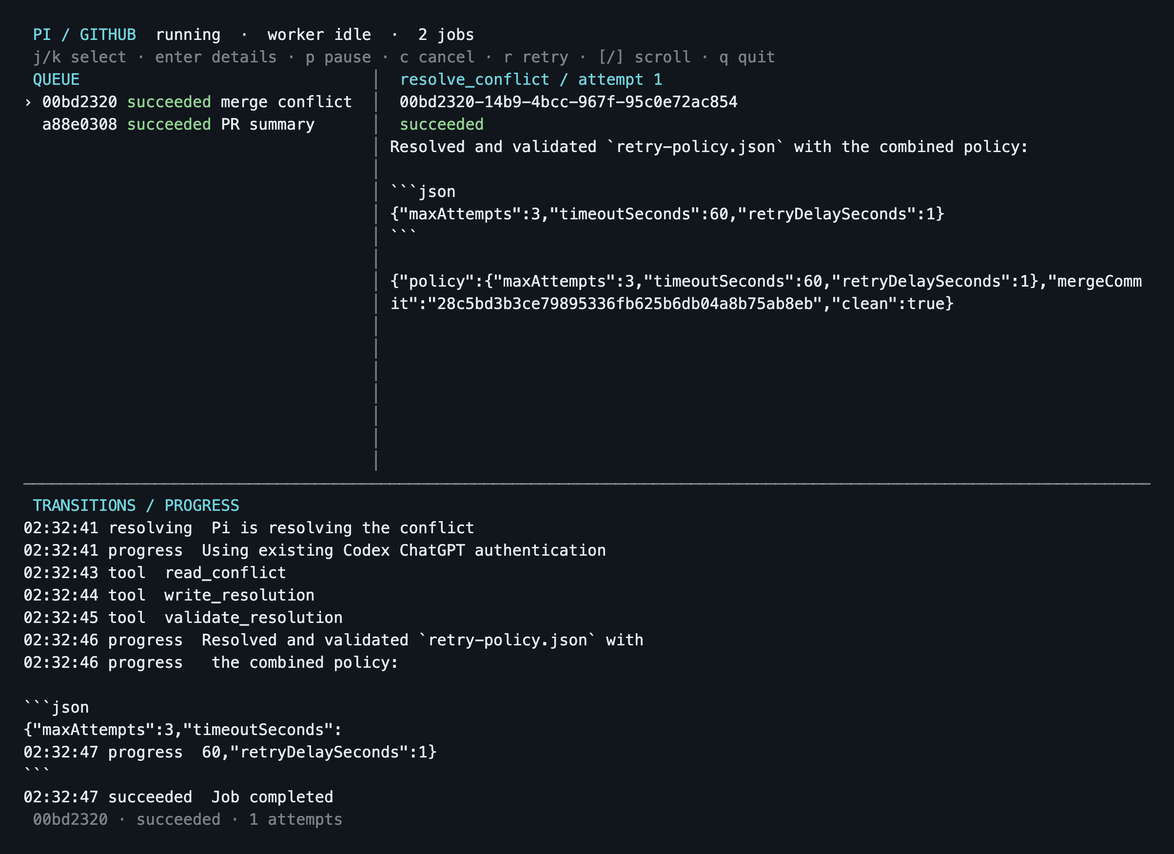
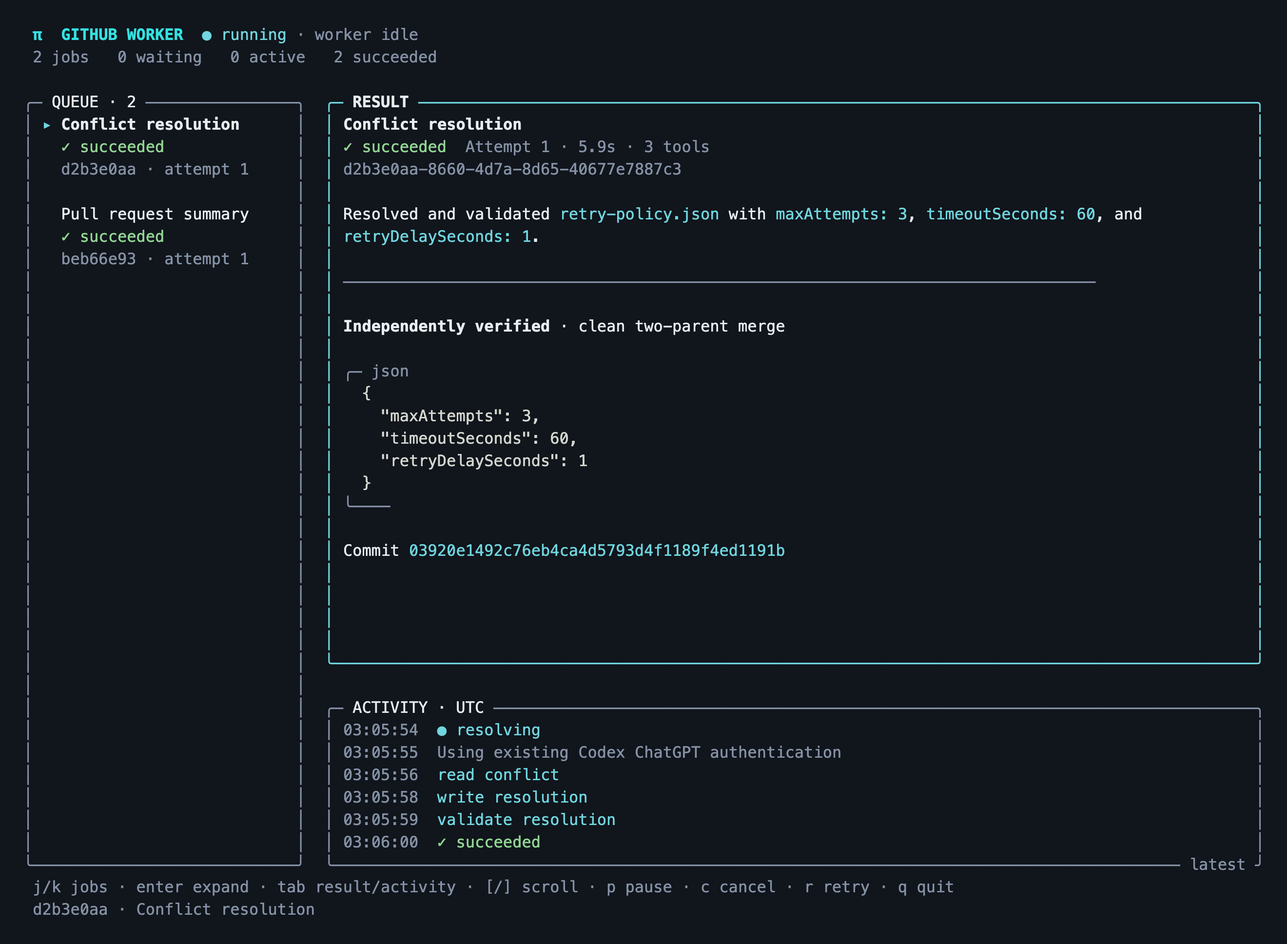
feat(pi-github): render Markdown in dashboard
Give results more room, format verified policy evidence, and separate compact activity from worker prose. Preserve responsive layouts, independent bounded scrolling, and visible quit help.

Detected-By: user

diff --git a/tools/pi-github/src/dashboard-render.ts b/tools/pi-github/src/dashboard-render.ts
@@ -1,0 +1,148 @@
+import { Markdown, truncateToWidth, visibleWidth, wrapTextWithAnsi, type MarkdownTheme } from "@earendil-works/pi-tui";
+import { activeStates, cleanText, type Job, type JobEvent, type Snapshot } from "./domain.js";
+
+const paint = (code: number, text: string) => `\x1b[${code}m${text}\x1b[0m`;
+const accent = (text: string) => paint(36, text);
+const muted = (text: string) => paint(90, text);
+const bold = (text: string) => paint(1, text);
+const fit = (text: string, width: number) => truncateToWidth(text, Math.max(1, width), "");
+const pad = (text: string, width: number) => fit(text, width) + " ".repeat(Math.max(0, width - visibleWidth(fit(text, width))));
+const statusLabel = (value: string) => value.replaceAll("_", " ");
+function state(value: string): string {
+  const code = value === "failed" ? 31 : value === "succeeded" ? 32 : value === "conflicted" || value === "paused" || value === "retry_wait" ? 33 : 36;
+  const icon = value === "succeeded" ? "✓" : value === "failed" ? "×" : value === "queued" ? "◇" : "●";
+  return paint(code, `${icon} ${statusLabel(value)}`);
+}
+const title = (job: Job) => job.task.kind === "resolve_conflict" ? "Conflict resolution" : "Pull request summary";
+const markdownTheme: MarkdownTheme = {
+  heading: text => accent(bold(text)), link: accent, linkUrl: muted, code: accent,
+  codeBlock: text => paint(37, text), codeBlockBorder: text => muted(text.length > 3 ? `╭─ ${text.slice(3)} ` : "╰────"),
+  highlightCode: (code, language) => {
+    if (language?.toLowerCase() === "json") {
+      try { code = JSON.stringify(JSON.parse(code), null, 2); } catch { /* NOTE: Incomplete streamed JSON stays visible without reformatting. */ }
+    }
+    return code.split("\n").map(line => paint(37, line));
+  },
+  quote: muted, quoteBorder: accent, hr: muted, listBullet: accent, bold,
+  italic: text => paint(3, text), strikethrough: text => paint(9, text), underline: text => paint(4, text),
+};
+export interface ViewState {
+  selected: number; expanded: boolean; scroll: number; message: string;
+  focus?: "result" | "activity"; activityScroll?: number;
+}
+
+function resultMarkdown(job: Job, events: JobEvent[]): string {
+  if (job.result) {
+    const text = cleanText(job.result, 24000);
+    const boundary = text.lastIndexOf("\n\n");
+    if (job.task.kind === "resolve_conflict" && job.status === "succeeded" && boundary >= 0) {
+      try {
+        const verified = JSON.parse(text.slice(boundary + 2)) as { clean?: unknown; mergeCommit?: unknown; policy?: Record<string, unknown> };
+        if (verified.clean === true && typeof verified.mergeCommit === "string" && /^[a-f0-9]{40}$/.test(verified.mergeCommit) && verified.policy && ["maxAttempts", "timeoutSeconds", "retryDelaySeconds"].every(key => typeof verified.policy![key] === "number")) {
+          return `${text.slice(0, boundary)}\n\n---\n\n**Independently verified** · clean two-parent merge\n\n\`\`\`json\n${JSON.stringify(verified.policy)}\n\`\`\`\n\nCommit \`${verified.mergeCommit}\``;
+        }
+      } catch { /* NOTE: Older or unfamiliar results remain visible as received. */ }
+    }
+    return text;
+  }
+  if (job.error) return `**${statusLabel(job.status)}**\n\n${cleanText(job.error)}`;
+  const attemptStart = job.attempts.at(-1)?.startedAt ?? 0;
+  const progress = events.filter(e => e.at >= attemptStart && e.kind === "progress" && !e.detail.startsWith("Using existing ")).map(e => e.detail).join("");
+  if (progress) return progress;
+  const conflict = events.findLast(e => e.kind === "conflicted");
+  if (conflict) return `**Reconciling the two branches**\n\nPi is reading the conflict and validating a combined policy.\n\n\`\`\`diff\n${conflict.detail}\n\`\`\``;
+  return job.status === "queued" ? "Waiting for the scheduler to dispatch this job." : "Waiting for worker output…";
+}
+
+function panel(label: string, contents: string[], width: number, height: number, focused = false, hint = ""): string[] {
+  const border = focused ? accent : muted;
+  const inside = Math.max(1, width - 4);
+  const heading = ` ${label} `;
+  const top = border("╭─") + (focused ? bold(heading) : heading) + border("─".repeat(Math.max(0, width - visibleWidth(heading) - 3)) + "╮");
+  const rows = [top];
+  for (let i = 0; i < height - 2; i++) rows.push(border("│") + " " + pad(contents[i] ?? "", inside) + " " + border("│"));
+  const bottom = hint ? ` ${hint} ` : "";
+  rows.push(border("╰" + "─".repeat(Math.max(0, width - visibleWidth(bottom) - 2)) + bottom + "╯"));
+  return rows.slice(0, height).map(line => fit(line, width));
+}
+
+function queue(snapshot: Snapshot, selected: number, width: number, height: number): string[] {
+  const capacity = Math.max(1, Math.floor((height - 2) / 4));
+  const start = Math.max(0, selected - capacity + 1);
+  const rows: string[] = [];
+  for (const [i, job] of snapshot.jobs.slice(start, start + capacity).entries()) {
+    const chosen = start + i === selected;
+    rows.push((chosen ? accent("▸ ") + bold(title(job)) : "  " + title(job)), "  " + state(job.status), muted(`  ${job.id.slice(0, 8)} · attempt ${job.attempts.length}`), "");
+  }
+  if (!snapshot.jobs.length) rows.push("No jobs yet.", "", ...wrapTextWithAnsi(muted("Run bin/pi-github demo from another terminal."), Math.max(1, width - 4)));
+  return panel(`QUEUE · ${snapshot.jobs.length}`, rows, width, height, false, snapshot.jobs.length > capacity ? `${start + 1}–${Math.min(start + capacity, snapshot.jobs.length)} of ${snapshot.jobs.length}` : "");
+}
+
+function result(job: Job | undefined, events: JobEvent[], view: ViewState, width: number, height: number): { lines: string[]; maxScroll: number } {
+  if (!job) return { maxScroll: 0, lines: panel("RESULT", ["Submit a job to get started.", "", ...wrapTextWithAnsi(muted("The selected result will appear here, with the worker's Markdown formatted for the terminal."), Math.max(1, width - 4))], width, height, true) };
+  const attempt = job.attempts.at(-1);
+  const duration = attempt?.endedAt ? ` · ${((attempt.endedAt - attempt.startedAt) / 1000).toFixed(1)}s` : "";
+  const calls = events.filter(e => e.kind === "tool" && e.at >= (attempt?.startedAt ?? 0)).length;
+  const metadata = height < 10 ? [state(job.status)] : [bold(title(job)), `${state(job.status)}  ${muted(`Attempt ${job.attempts.length}${duration} · ${calls} tool${calls === 1 ? "" : "s"}`)}`, muted(job.id), ""];
+  const lines = new Markdown(resultMarkdown(job, events), 0, 0, markdownTheme).render(Math.max(1, width - 4));
+  const available = Math.max(1, height - 2 - metadata.length);
+  const offset = Math.min(view.scroll, Math.max(0, lines.length - available));
+  return { maxScroll: Math.max(0, lines.length - available), lines: panel("RESULT", [...metadata, ...lines.slice(offset, offset + available)], width, height, view.focus !== "activity", lines.length > available ? `${offset + 1}–${Math.min(offset + available, lines.length)} / ${lines.length}` : "") };
+}
+
+function activity(events: JobEvent[], view: ViewState, width: number, height: number): { lines: string[]; maxScroll: number } {
+  const meaningful = events.filter(e => e.kind !== "worker_started" && (e.kind !== "progress" || e.detail.startsWith("Using existing ")));
+  const capacity = Math.max(1, height - 2);
+  const offset = Math.min(view.activityScroll ?? 0, Math.max(0, meaningful.length - capacity));
+  const end = meaningful.length - offset;
+  const rows = meaningful.slice(Math.max(0, end - capacity), end).map(e => {
+    const label = e.kind === "tool" ? accent(e.detail.replaceAll("_", " ")) : e.kind === "progress" ? muted(e.detail) : e.kind === "conflicted" ? paint(33, "Merge conflict detected") : state(e.kind);
+    return muted(new Date(e.at).toISOString().slice(11, 19)) + "  " + label;
+  });
+  return { maxScroll: Math.max(0, meaningful.length - capacity), lines: panel("ACTIVITY · UTC", rows.length ? rows : [muted("Waiting for events…")], width, height, view.focus === "activity", offset ? `${offset} earlier` : "latest") };
+}
+
+export function layoutDashboard(snapshot: Snapshot, view: ViewState, width: number, height: number): { lines: string[]; resultLimit: number; activityLimit: number } {
+  let resultLimit = 0; let activityLimit = 0;
+  width = Math.max(1, width); height = Math.max(1, height);
+  const job = snapshot.jobs[view.selected];
+  const events = snapshot.events.filter(e => !job || e.jobId === job.id);
+  const completed = snapshot.jobs.filter(j => j.status === "succeeded").length;
+  const waiting = snapshot.jobs.filter(j => j.status === "queued" || j.status === "retry_wait").length;
+  const active = snapshot.jobs.filter(j => activeStates.includes(j.status)).length;
+  const rows = [accent(bold(" π  GITHUB WORKER")) + "  " + state(snapshot.scheduler) + muted(` · worker ${snapshot.worker}`), muted(` ${snapshot.jobs.length} jobs   ${waiting} waiting   ${active} active   ${completed} succeeded`)];
+  if (width < 32 || height < 12) {
+    rows.push(job ? `${title(job)} · ${state(job.status)}` : "No jobs yet.", ...(job ? wrapTextWithAnsi(cleanText(job.error ?? job.result ?? "Waiting for worker output…"), width) : []));
+    rows.length = Math.min(rows.length, height - 1);
+    while (rows.length < height - 1) rows.push("");
+    rows.push(muted("q quit · j/k jobs"));
+  } else {
+    if (snapshot.recoveryPid) rows[1] = paint(33, ` Waiting for previous worker PID ${snapshot.recoveryPid} to exit`);
+    if (view.message) rows[1] = paint(31, " " + view.message);
+    rows.push("");
+    const bodyHeight = Math.max(4, height - 5);
+    const sideBySide = width >= 96 && height >= 18 && !view.expanded;
+    const leftWidth = sideBySide ? 30 : 0;
+    const rightWidth = width - (sideBySide ? leftWidth + 2 : 0);
+    const compactQueue = !sideBySide && !view.expanded ? [muted(` QUEUE · ${snapshot.jobs.length}  `) + (job ? `${title(job)}  ${state(job.status)}` : "No jobs yet."), ""] : [];
+    const activityHeight = height >= 18 ? Math.min(8, Math.max(5, Math.floor(bodyHeight * 0.27))) : 0;
+    const resultHeight = bodyHeight - compactQueue.length - (activityHeight ? activityHeight + 1 : 0);
+    const paneView = activityHeight ? view : { ...view, focus: "result" as const };
+    const output = result(job, events, paneView, rightWidth, resultHeight);
+    const timeline = activityHeight ? activity(events, view, rightWidth, activityHeight) : { lines: [], maxScroll: 0 };
+    resultLimit = output.maxScroll; activityLimit = timeline.maxScroll;
+    const right = [...compactQueue, ...output.lines, ...(activityHeight ? ["", ...timeline.lines] : [])];
+    if (sideBySide) {
+      const left = queue(snapshot, view.selected, leftWidth, bodyHeight);
+      for (let i = 0; i < bodyHeight; i++) rows.push(pad(left[i] ?? "", leftWidth) + "  " + (right[i] ?? ""));
+    } else rows.push(...right);
+    const controls = width >= 110 ? " j/k jobs · enter expand · tab result/activity · [/] scroll · p pause · c cancel · r retry · q quit" : width >= 72 ? " j/k jobs · enter expand · tab pane · [/] scroll · q quit" : " q quit · j/k jobs · [/] scroll";
+    rows.push(muted(controls), muted(job ? ` ${job.id.slice(0, 8)} · ${title(job)}${view.expanded ? " · expanded" : ""}` : " Submit work with bin/pi-github demo"));
+  }
+  while (rows.length < height) rows.push("");
+  return { lines: rows.slice(0, height).map(line => fit(line, width)), resultLimit, activityLimit };
+}
+
+export function renderDashboard(snapshot: Snapshot, view: ViewState, width: number, height: number): string[] {
+  return layoutDashboard(snapshot, view, width, height).lines;
+}

diff --git a/tools/pi-github/src/dashboard.ts b/tools/pi-github/src/dashboard.ts
@@ -1,57 +1,43 @@
-import { ProcessTerminal, TuiAltScreen, matchesKey, Key, truncateToWidth, visibleWidth, wrapTextWithAnsi, type Component, type Terminal } from "@earendil-works/pi-tui";
-import { cleanText, type Snapshot } from "./domain.js";
+import { ProcessTerminal, TuiAltScreen, matchesKey, Key, type Component, type Terminal } from "@earendil-works/pi-tui";
+import { cleanText } from "./domain.js";
 import { Coordinator } from "./coordinator.js";
+import { layoutDashboard, type ViewState } from "./dashboard-render.js";
+export { renderDashboard, type ViewState } from "./dashboard-render.js";
 
-const cyan = (s: string) => `\x1b[36m${s}\x1b[0m`;
-const dim = (s: string) => `\x1b[2m${s}\x1b[0m`;
-function state(s: string): string { const c = s === "failed" ? 31 : s === "succeeded" ? 32 : s === "conflicted" ? 33 : 36; return `\x1b[${c}m${s}\x1b[0m`; }
-export interface ViewState { selected: number; expanded: boolean; scroll: number; message: string }
-export function renderDashboard(snapshot: Snapshot, view: ViewState, width: number, height: number): string[] {
-  width = Math.max(1, width); height = Math.max(1, height);
-  const fit = (s: string, size = width) => truncateToWidth(s, Math.max(1, size), "");
-  const job = snapshot.jobs[view.selected];
-  const rows = [fit(cyan(" PI / GITHUB ") + ` ${snapshot.scheduler}  ·  worker ${snapshot.worker}  ·  ${snapshot.jobs.length} jobs`), ...wrapTextWithAnsi(dim(" j/k select · enter details · p pause · c cancel · r retry · [/] scroll · q quit"), width)];
-  if (snapshot.recoveryPid) rows.push(fit(state("Recovering") + ` — waiting for previous worker PID ${snapshot.recoveryPid} to exit`));
-  if (view.message) rows.push(fit(view.message));
-  const bodyHeight = Math.max(2, Math.floor((height - rows.length - 3) * 0.6));
-  const offset = Math.max(0, view.selected - bodyHeight + 1);
-  const queue = [cyan(" QUEUE"), ...snapshot.jobs.slice(offset, offset + bodyHeight - 1).map((j, index) => `${offset + index === view.selected ? "›" : " "} ${j.id.slice(0, 8)} ${state(j.status)} ${j.task.kind === "resolve_conflict" ? "merge conflict" : "PR summary"}`)];
-  if (!snapshot.jobs.length) queue.push(dim(" No jobs yet. Run pi-github demo."));
-  const details = job ? [cyan(` ${job.task.kind} / attempt ${job.attempts.length}`), ` ${job.id}`, ` ${state(job.status)}`, ...(job.error ? wrapTextWithAnsi(cleanText(job.error), Math.max(1, width - 40)) : []), ...wrapTextWithAnsi(cleanText(job.result ?? (snapshot.events.filter(e => e.jobId === job.id && (e.kind === "conflicted" || e.kind === "progress")).at(-1)?.detail ?? "Waiting for worker output…")), Math.max(1, width >= 90 ? width - 40 : width)).slice(view.scroll)] : [dim(" Select a job to inspect its state.")];
-  if (width >= 90 && !view.expanded) {
-    const leftWidth = 36;
-    for (let i = 0; i < bodyHeight; i++) { const left = fit(queue[i] ?? "", leftWidth); rows.push(left + " ".repeat(Math.max(0, leftWidth - visibleWidth(left))) + dim(" │ ") + fit(details[i] ?? "", width - leftWidth - 3)); }
-  } else {
-    rows.push(...queue.slice(0, view.expanded ? 1 : Math.min(4, bodyHeight)), ...details.slice(0, Math.max(1, bodyHeight - (view.expanded ? 1 : 4))));
-  }
-  rows.push(fit(dim("─".repeat(width))), fit(cyan(" TRANSITIONS / PROGRESS")));
-  const relevant = snapshot.events.filter(e => !job || e.jobId === job.id);
-  const events = relevant.flatMap(e => wrapTextWithAnsi(`${new Date(e.at).toISOString().slice(11, 19)} ${e.kind}  ${cleanText(e.detail, 2000)}`, width));
-  const remaining = Math.max(0, height - rows.length - 1);
-  const end = Math.max(0, events.length - view.scroll);
-  rows.push(...events.slice(Math.max(0, end - remaining), end));
-  while (rows.length < height - 1) rows.push("");
-  rows.push(fit(dim(job ? ` ${job.id.slice(0, 8)} · ${job.status} · ${job.attempts.length} attempts` : " Ready for submitted work")));
-  return rows.slice(0, height).map(line => fit(line));
-}
 export class Dashboard implements Component {
   view: ViewState = { selected: 0, expanded: false, scroll: 0, message: "" };
   constructor(private coordinator: Coordinator, private height: () => number, private refresh: () => void, private quit: () => void) {}
+  private limits = { resultLimit: 0, activityLimit: 0 };
+  private width = 0;
   invalidate(): void {}
-  render(width: number): string[] { return renderDashboard(this.coordinator.snapshot(), this.view, width, this.height()); }
+  render(width: number): string[] {
+    this.width = width;
+    if (this.height() < 18 || width < 32) this.view.focus = "result";
+    const layout = layoutDashboard(this.coordinator.snapshot(), this.view, width, this.height());
+    this.limits = layout;
+    this.view.scroll = Math.min(this.view.scroll, layout.resultLimit);
+    this.view.activityScroll = Math.min(this.view.activityScroll ?? 0, layout.activityLimit);
+    return layout.lines;
+  }
   handleInput(input: string): void {
+    if (this.height() < 18 || this.width < 32) this.view.focus = "result";
     const snapshot = this.coordinator.snapshot();
     const job = snapshot.jobs[this.view.selected];
     try {
       if (input === "q" || matchesKey(input, Key.ctrl("c"))) { this.quit(); return; }
-      if (input === "j" || matchesKey(input, Key.down)) { this.view.selected = Math.min(snapshot.jobs.length - 1, this.view.selected + 1); this.view.scroll = 0; }
-      else if (input === "k" || matchesKey(input, Key.up)) { this.view.selected = Math.max(0, this.view.selected - 1); this.view.scroll = 0; }
+      if (input === "j" || matchesKey(input, Key.down)) { this.view.selected = Math.min(snapshot.jobs.length - 1, this.view.selected + 1); this.view.scroll = 0; this.view.activityScroll = 0; }
+      else if (input === "k" || matchesKey(input, Key.up)) { this.view.selected = Math.max(0, this.view.selected - 1); this.view.scroll = 0; this.view.activityScroll = 0; }
       else if (matchesKey(input, Key.enter)) this.view.expanded = !this.view.expanded;
       else if (input === "p") this.coordinator.command({ op: snapshot.scheduler === "paused" ? "resume" : "pause" });
       else if (input === "c" && job) this.coordinator.command({ op: "cancel", id: job.id });
       else if (input === "r" && job) this.coordinator.command({ op: "retry", id: job.id });
-      else if (input === "[") this.view.scroll += 3;
-      else if (input === "]") this.view.scroll = Math.max(0, this.view.scroll - 3);
+      else if (matchesKey(input, Key.tab) && this.height() >= 18 && this.width >= 32) this.view.focus = this.view.focus === "activity" ? "result" : "activity";
+      else if (input === "[" || input === "]") {
+        const field = this.view.focus === "activity" ? "activityScroll" : "scroll";
+        const limit = field === "scroll" ? this.limits.resultLimit : this.limits.activityLimit;
+        const direction = (input === "[" ? -3 : 3) * (field === "activityScroll" ? -1 : 1);
+        this.view[field] = Math.min(limit, Math.max(0, (this.view[field] ?? 0) + direction));
+      }
       this.view.selected = Math.max(0, this.view.selected); this.view.message = "";
     } catch (error) { this.view.message = cleanText((error as Error).message); }
     this.refresh();

diff --git a/tools/pi-github/test/dashboard.test.ts b/tools/pi-github/test/dashboard.test.ts
@@ -7,9 +7,9 @@ import { visibleWidth, type Terminal } from '@earendil-works/pi-tui';
 import { renderDashboard, Dashboard, dashboard } from '../src/dashboard.js';
 import { Coordinator } from '../src/coordinator.js';
 import type { Snapshot } from '../src/domain.js';
-const sample: Snapshot = { scheduler: 'running', worker: 'busy', jobs: [{ id: 'example', requestId: 'r', digest: 'd', task: { kind: 'resolve_conflict' }, status: 'resolving', createdAt: 1, updatedAt: 2, availableAt: 1, retryCount: 0, attempts: [{ number: 1, startedAt: 1 }], result: 'A long result '.repeat(30) }], events: [{ seq: 1, jobId: 'example', at: 1, kind: 'conflicted', detail: '<<<<<<< HEAD\npolicy conflict\n=======\nsource\n>>>>>>> source' }] };
+const sample: Snapshot = { scheduler: 'running', worker: 'busy', jobs: [{ id: 'example', requestId: 'r', digest: 'd', task: { kind: 'resolve_conflict' }, status: 'resolving', createdAt: 1, updatedAt: 2, availableAt: 1, retryCount: 0, attempts: [{ number: 1, startedAt: 1 }], result: '**Reconciling branches**\n\nKeep the policy conflict visible.\n\n```json\n{"maxAttempts":3,"timeoutSeconds":60,"retryDelaySeconds":1}\n```' }], events: [{ seq: 1, jobId: 'example', at: 1, kind: 'conflicted', detail: '<<<<<<< HEAD\npolicy conflict\n=======\nsource\n>>>>>>> source' }] };
 test('dashboard fits wide, narrow and very small terminal sizes', () => {
-  for (const [width, height] of [[120, 36], [80, 24], [40, 12], [12, 5], [1, 1]]) {
+  for (const [width, height] of [[160, 50], [120, 36], [96, 24], [95, 24], [80, 24], [40, 12], [32, 12], [12, 5], [1, 1]]) {
     const lines = renderDashboard(sample, { selected: 0, expanded: false, scroll: 0, message: '' }, width!, height!);
     assert.equal(lines.length, height);
     assert.ok(lines.every(line => visibleWidth(line) <= width!));
@@ -30,15 +30,67 @@ test('keyboard actions use the same coordinator API and terminal cleanup runs on
   try {
     await c.start(); c.command({ op: 'pause' });
     const job = c.command({ op: 'submit', requestId: 'ui', task: { kind: 'resolve_conflict' } }) as { id: string };
-    const component = new Dashboard(c, () => 25, () => {}, () => {});
+    let height = 25;
+    const component = new Dashboard(c, () => height, () => {}, () => {});
     component.handleInput('c'); assert.equal(c.store.get(job.id).status, 'cancelled');
     component.handleInput('\r'); assert.equal(component.view.expanded, true);
-    component.handleInput('['); assert.equal(component.view.scroll, 3);
+    component.render(100);
+    component.handleInput('['); assert.equal(component.view.scroll, 0);
     component.handleInput(']'); assert.equal(component.view.scroll, 0);
+    c.store.save({ ...c.store.get(job.id), result: Array.from({ length: 60 }, (_, i) => `Paragraph ${i}.\n\n`).join('') }, 'progress');
+    for (let i = 0; i < 15; i++) c.store.event(job.id, 'tool', 'read_conflict');
+    component.render(100);
+    component.handleInput(']'); assert.equal(component.view.scroll, 3);
+    component.handleInput('\t'); assert.equal(component.view.focus, 'activity');
+    component.handleInput('['); assert.equal(component.view.activityScroll, 3); assert.equal(component.view.scroll, 3);
+    for (let i = 0; i < 50; i++) component.handleInput('[');
+    const end = component.view.activityScroll;
+    component.handleInput('['); assert.equal(component.view.activityScroll, end);
+    component.handleInput(']'); assert.equal(component.view.activityScroll, end! - 3);
+    height = 16; component.render(100);
+    assert.equal(component.view.focus, 'result');
+    component.handleInput(']'); assert.equal(component.view.scroll, 6);
+
+
     const done = dashboard(c, terminal);
     await new Promise(r => setTimeout(r, 40));
     assert.match(output, /QUEUE/);
     input!('q'); await done;
     assert.equal(stopped, true);
   } finally { await c.close(); await rm(directory, { recursive: true, force: true }); }
+});
+
+test('worker Markdown renders with formatting and JSON blocks, without raw fences or control injection', () => {
+  const snapshot = structuredClone(sample);
+  snapshot.jobs[0]!.result = '# Result\n\n**Combined policy** in `retry-policy.json`.\n\n- Keep three attempts.\n- Use the longer timeout.\n\n```json\n{"maxAttempts":3,"timeoutSeconds":60}\n```\n\n\x1b[2JVisible text';
+  const output = renderDashboard(snapshot, { selected: 0, expanded: true, scroll: 0, message: '' }, 100, 40).join('\n');
+  assert.match(output, /Combined policy/);
+  assert.match(output, /Keep three attempts/);
+  assert.match(output, /"maxAttempts": 3/);
+  assert.match(output, /\x1b\[1m/);
+  assert.doesNotMatch(output, /```|\*\*Combined policy\*\*|`retry-policy.json`|\x1b\[2J/);
+});
+test('verified merge metadata is readable and independent scrolling keeps the other pane stationary', () => {
+  const snapshot = structuredClone(sample);
+  snapshot.jobs[0]!.status = 'succeeded';
+  snapshot.jobs[0]!.result = '**Resolved**\n\n' + Array.from({ length: 45 }, (_, i) => `Result paragraph ${i}.\n\n`).join('') + 'BOTTOM RESULT\n\n' + JSON.stringify({ policy: { maxAttempts: 3, timeoutSeconds: 60, retryDelaySeconds: 1 }, clean: true, mergeCommit: 'a'.repeat(40) });
+  snapshot.events = Array.from({ length: 20 }, (_, i) => ({ seq: i + 1, jobId: 'example', at: i + 1, kind: 'tool', detail: `activity_${i}` }));
+  const view = { selected: 0, expanded: false, scroll: 0, message: '' };
+  const beginning = renderDashboard(snapshot, view, 120, 36).join('\n');
+  const ending = renderDashboard(snapshot, { ...view, scroll: 9999 }, 120, 36).join('\n');
+  const older = renderDashboard(snapshot, { ...view, focus: 'activity', activityScroll: 9999 }, 120, 36).join('\n');
+  assert.match(beginning, /Result paragraph 0/);
+  assert.match(ending, /BOTTOM RESULT/); assert.match(ending, /Independently verified/);
+  assert.doesNotMatch(ending, /"mergeCommit"|"clean"/);
+  assert.match(beginning, /activity 19/); assert.match(ending, /activity 19/);
+  assert.match(older, /activity 0/); assert.match(older, /Result paragraph 0/);
+});
+
+test('tiny terminals retain quit help even when the selected result is long', () => {
+  const snapshot = structuredClone(sample);
+  snapshot.jobs[0]!.result = 'A long result. '.repeat(500);
+  for (const [width, height] of [[12, 5], [1, 1]]) {
+    const lines = renderDashboard(snapshot, { selected: 0, expanded: false, scroll: 0, message: '' }, width!, height!);
+    assert.match(lines.at(-1)!, /q/);
+  }
 });

diff --git a/tools/pi-github/docs/live-acceptance.md b/tools/pi-github/docs/live-acceptance.md
@@ -4,16 +4,20 @@ On 2026-11-08, the native Pi dashboard ran the two-job `demo` under Bun 1.4.4 fr
 
 ![Live dashboard after both jobs succeeded](images/dashboard.png)
 
-The screenshot is the actual dashboard output captured from a 120-column, 36-row PTY during this run, replayed in xterm.js and photographed by headless Chromium. Its queue, job details, and events come from the live coordinator; no sample snapshot was substituted. The capture process continuously drained the PTY so terminal backpressure could not stall the coordinator.
+The screenshot is the actual dashboard output captured from a 132-column, 40-row PTY showing this run’s persisted results, replayed in xterm.js and photographed by headless Chromium. Its queue, job details, and events come from the live coordinator; no sample snapshot was substituted. The capture process continuously drained the PTY so terminal backpressure could not stall the coordinator.
 
-The conflict job `00bd2320-14b9-4bcc-967f-95c0e72ac854` passed through `queued`, `running`, `conflicted`, `resolving`, and `succeeded`. Its event stream contained actual Git conflict markers, then the live model called `read_conflict`, `write_resolution`, and `validate_resolution`. The coordinator independently checked the required policy, clean worktree, and two-parent merge before reporting success.
+The conflict job `d2b3e0aa-8660-4d7a-8d65-40677e7887c3` passed through `queued`, `running`, `conflicted`, `resolving`, and `succeeded`. Its event stream contained actual Git conflict markers, then the live model called `read_conflict`, `write_resolution`, and `validate_resolution`. The coordinator independently checked the required policy, clean worktree, and two-parent merge before reporting success.
 
 ```json
-{"policy":{"maxAttempts":3,"timeoutSeconds":60,"retryDelaySeconds":1},"mergeCommit":"28c5bd3b3ce79895336fb625b6db04a8b75ab8eb","clean":true}
+{"policy":{"maxAttempts":3,"timeoutSeconds":60,"retryDelaySeconds":1},"mergeCommit":"03920e1492c76eb4ca4d5793d4f1189f4ed1191b","clean":true}
 ```
 
-The conflict worker's exit was observed before job `a88e0308-eb72-4a39-802e-18a59eaefe9f` started. That second job read public [Pi PR 11546](https://github.com/earendil-works/pi/pull/11546) through the coordinator and successfully returned a summary of its output-buffer cap and related changes. Both jobs succeeded on their first attempt, and their worker exits were recorded. Remote GitHub writes were not exercised; this worker supports reads only.
+The conflict worker's exit was observed before job `beb66e93-cf8f-458f-8e0f-b74f788d2470` started. That second job read public [Pi PR 11546](https://github.com/earendil-works/pi/pull/11546) through the coordinator and successfully returned a summary of its output-buffer cap and related changes. Both jobs succeeded on their first attempt, and their worker exits were recorded. Remote GitHub writes were not exercised; this worker supports reads only.
 
-`bun run check` passed all 24 tests, including synthetic auth-reference tests and scheduler/process regressions. Independent static review found no runtime or security blockers in the Bun migration. The disposable repository and temporary scheduler state were removed after inspection; the recorded merge hash identifies that local acceptance run and is not a published commit.
+`bun run check` passed all 27 tests, including synthetic auth-reference tests and scheduler/process regressions. Independent static review found no remaining actionable issues in the renderer, keyboard behavior, or terminal resize handling. The disposable repository and temporary scheduler state were removed after inspection; the recorded merge hash identifies that local acceptance run and is not a published commit.
 
 To repeat, enter `tools/pi-github`, run `bun install --frozen-lockfile --ignore-scripts` and `bun run build`, start `bin/pi-github dashboard`, and run `bin/pi-github demo --request-id YOUR_UNIQUE_ID --json` from another terminal using the same state directory. Inspect both job handles with `get` and `events`. A usable existing session and network access are required; this result establishes the observed run, not future provider availability.
+
+The formatted [PR summary](images/dashboard-pr.png) was captured after selecting the second job. Resizing the actual PTY to 80 columns and 32 rows produced the stacked layout below. Result and activity scrolling, Markdown formatting, terminal control sanitization, and small-terminal quit help have automated regression coverage.
+
+![Formatted PR summary in an 80-column terminal](images/dashboard-narrow.png)

diff --git a/tools/pi-github/README.md b/tools/pi-github/README.md
@@ -40,11 +40,13 @@ GitHub reads use the existing `gh` login. If authentication fails, use the suppo
 
 ![Pi dashboard showing the completed live conflict and queued GitHub summary](docs/images/dashboard.png)
 
-The screenshot shows a live Bun run using existing Codex and GitHub authentication. See the [acceptance record](docs/live-acceptance.md) for the observed merge and job results.
+The screenshot shows a live Bun run using existing Codex and GitHub authentication. See the [acceptance record](docs/live-acceptance.md) for the observed merge and job results, a [PR summary view](docs/images/dashboard-pr.png), and a [narrow-terminal view](docs/images/dashboard-narrow.png).
 
 ## Dashboard and commands
 
-The dashboard shows the queue, the selected job, and its transitions and progress. Use arrows or `j/k` to select, `Enter` to expand details, `p` to pause/resume dispatch, `c` to cancel, `r` to retry failed/interrupted work, `[` and `]` to scroll, and `q` to shut down gracefully. Narrow terminals stack the panes.
+The dashboard shows the queue, the selected job, and its transitions and progress. Use arrows or `j/k` to select a job, `Enter` to expand its result, and `Tab` to switch between result and activity. `[` moves up through the result or back through activity; `]` moves down or toward the latest activity. Each pane keeps its own bounded scroll position. Use `p` to pause/resume dispatch, `c` to cancel, `r` to retry failed/interrupted work, and `q` to shut down gracefully. Narrow terminals stack the panes; very small terminals retain a compact result and quit hint.
+
+Results use Pi’s native Markdown renderer for headings, emphasis, links, lists, tables, and code blocks. JSON blocks are indented for readability. The merge result separates the worker’s explanation from the coordinator’s independently verified policy and commit. The compact activity pane shows transitions and tool calls; streamed worker text appears in the result pane instead of filling the event timeline. The CLI continues to expose the recorded result and full paginated events.
 
 ```text
 pi-github submit summarize-pr --url https://github.com/OWNER/REPO/pull/NUMBER --request-id ID
